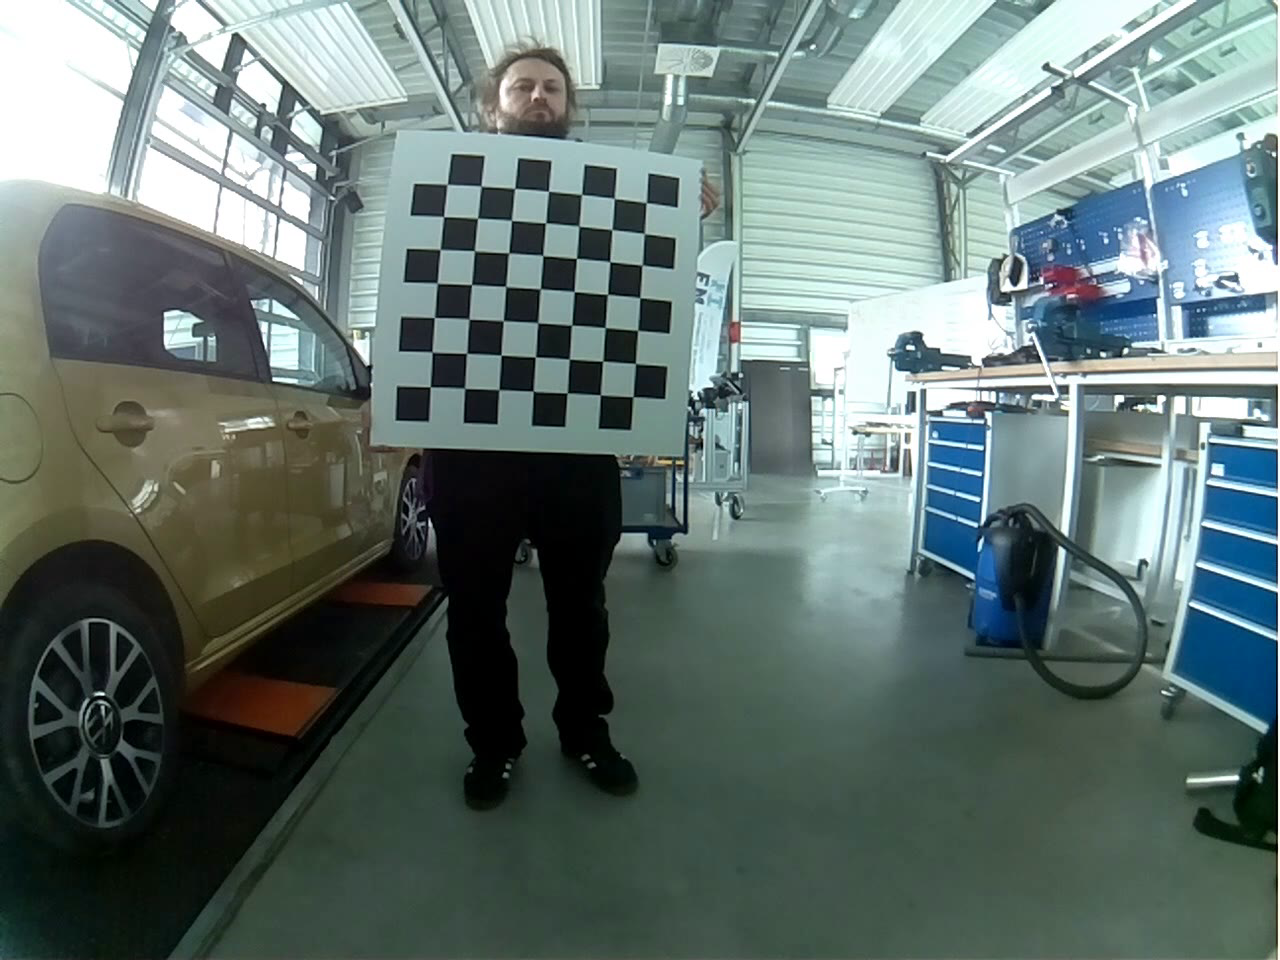
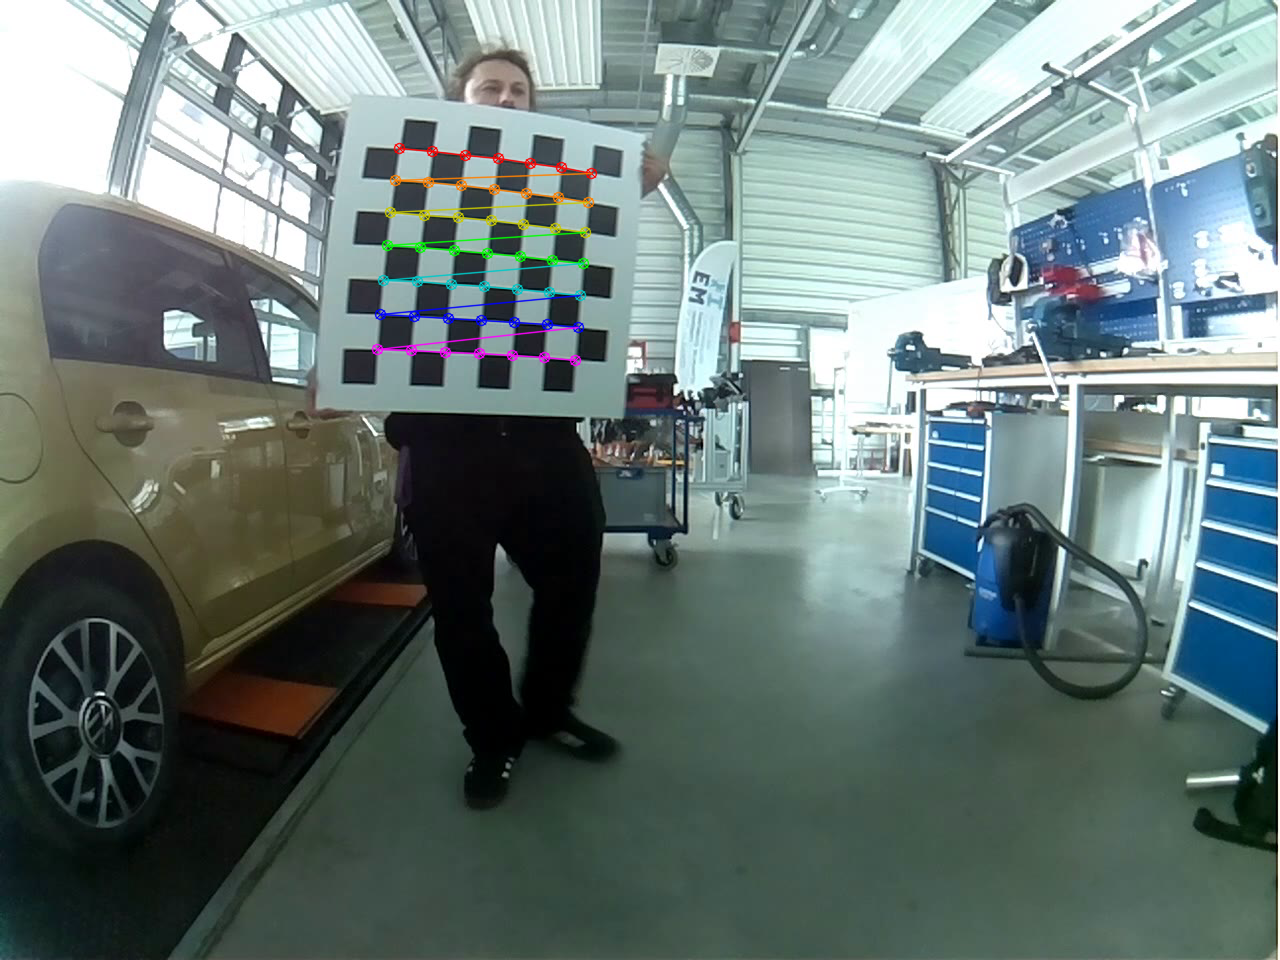
Idk still does not work at all

Changed region(s): [[0.2188, 0.0312, 0.5625, 0.8438]]

diff --git a/part1_2.py b/part1_2.py
@@ -11,7 +11,7 @@ def mirror_grid_anti_diagonal(grid, size=7):
     return mirrored_grid
 
 def mirro_corner_on_vertical_axis(corners):
-    print(corners[0:7])
+    #print(corners[0:7])
     corners[0:7] = (corners[0:7])[::-1]
     corners[7:14] = (corners[7:14])[::-1]
     corners[14:21] = (corners[14:21])[::-1]
@@ -19,8 +19,8 @@ def mirro_corner_on_vertical_axis(corners):
     corners[28:35] = (corners[28:35])[::-1]
     corners[35:42] = (corners[35:42])[::-1]
     corners[42:] = (corners[42:])[::-1]
-    print(corners[0:7])
-    print("")
+    #print(corners[0:7])
+    #print("")
     return corners
 
 def mirro_corner_on_horizontal_axis(corners):
@@ -50,9 +50,9 @@ for i in range(60):
     if ret:
         frames.append(frame)
 
-#frames = list()
-#frame_count = 0
-succes = False
+frames = list()
+frame_count = 0
+succes = True
 while succes:
     video.set(cv.CAP_PROP_POS_FRAMES, frame_count)
     succes, frame = video.read()
@@ -105,22 +105,62 @@ cv.destroyAllWindows()
 ret, mtx, dist, rvecs, tvecs = cv.calibrateCamera(objpoints, imgpoints, gray.shape[::-1], None, None)
 
 img = frames[3]
-cv.imshow('img', img)
-cv.waitKey()
-cv.imwrite('frame.png', img)
+#cv.imshow('img', img)
+#cv.waitKey()
+#cv.imwrite('frame.png', img)
 h,  w = img.shape[:2]
 newcameramtx, roi = cv.getOptimalNewCameraMatrix(mtx, dist, (w,h), 1, (w,h))
 
 # undistort
 dst = cv.undistort(img, mtx, dist, None, newcameramtx)
-cv.imshow('img', dst)
-cv.waitKey()
-cv.imwrite('Result.png', dst)
+#cv.imshow('img', dst)
+#cv.waitKey()
+#cv.imwrite('Result.png', dst)
 # crop the image
 x, y, w, h = roi
 
 dst = dst[y:y+h, x:x+w]
 
-cv.imshow('img', dst)
-cv.waitKey()
-cv.imwrite('ResultCropped.png', dst)
+#cv.imshow('img', dst)
+#cv.waitKey()
+#cv.imwrite('ResultCropped.png', dst)
+
+frame_width = int(video.get(3))
+frame_height = int(video.get(4))
+   
+size = (frame_width, frame_height)
+result_noCrop = cv.VideoWriter('result_noCrop.avi', 
+                         cv.VideoWriter_fourcc(*'MJPG'),
+                         fps, size)
+result_Crop = cv.VideoWriter('result_Crop.avi', 
+                         cv.VideoWriter_fourcc(*'MJPG'),
+                         fps, (w, h))
+
+frame_count = 0
+
+while(True):
+    video.set(cv.CAP_PROP_POS_FRAMES, frame_count)
+    ret, frame = video.read()
+  
+    if ret == True: 
+  
+        # Write the frame into the
+        # file 'filename.avi'
+        dst = cv.undistort(frame, mtx, dist, None, newcameramtx)
+        result_noCrop.write(dst)
+
+        dst = dst[y:y+h, x:x+w]
+        result_Crop.write(dst)
+
+        frame_count = frame_count + 1
+        print(frame_count)
+    # Break the loop
+    else:
+        break
+  
+# When everything done, release 
+# the video capture and video 
+# write objects
+video.release()
+result_noCrop.release()
+result_Crop.release()
